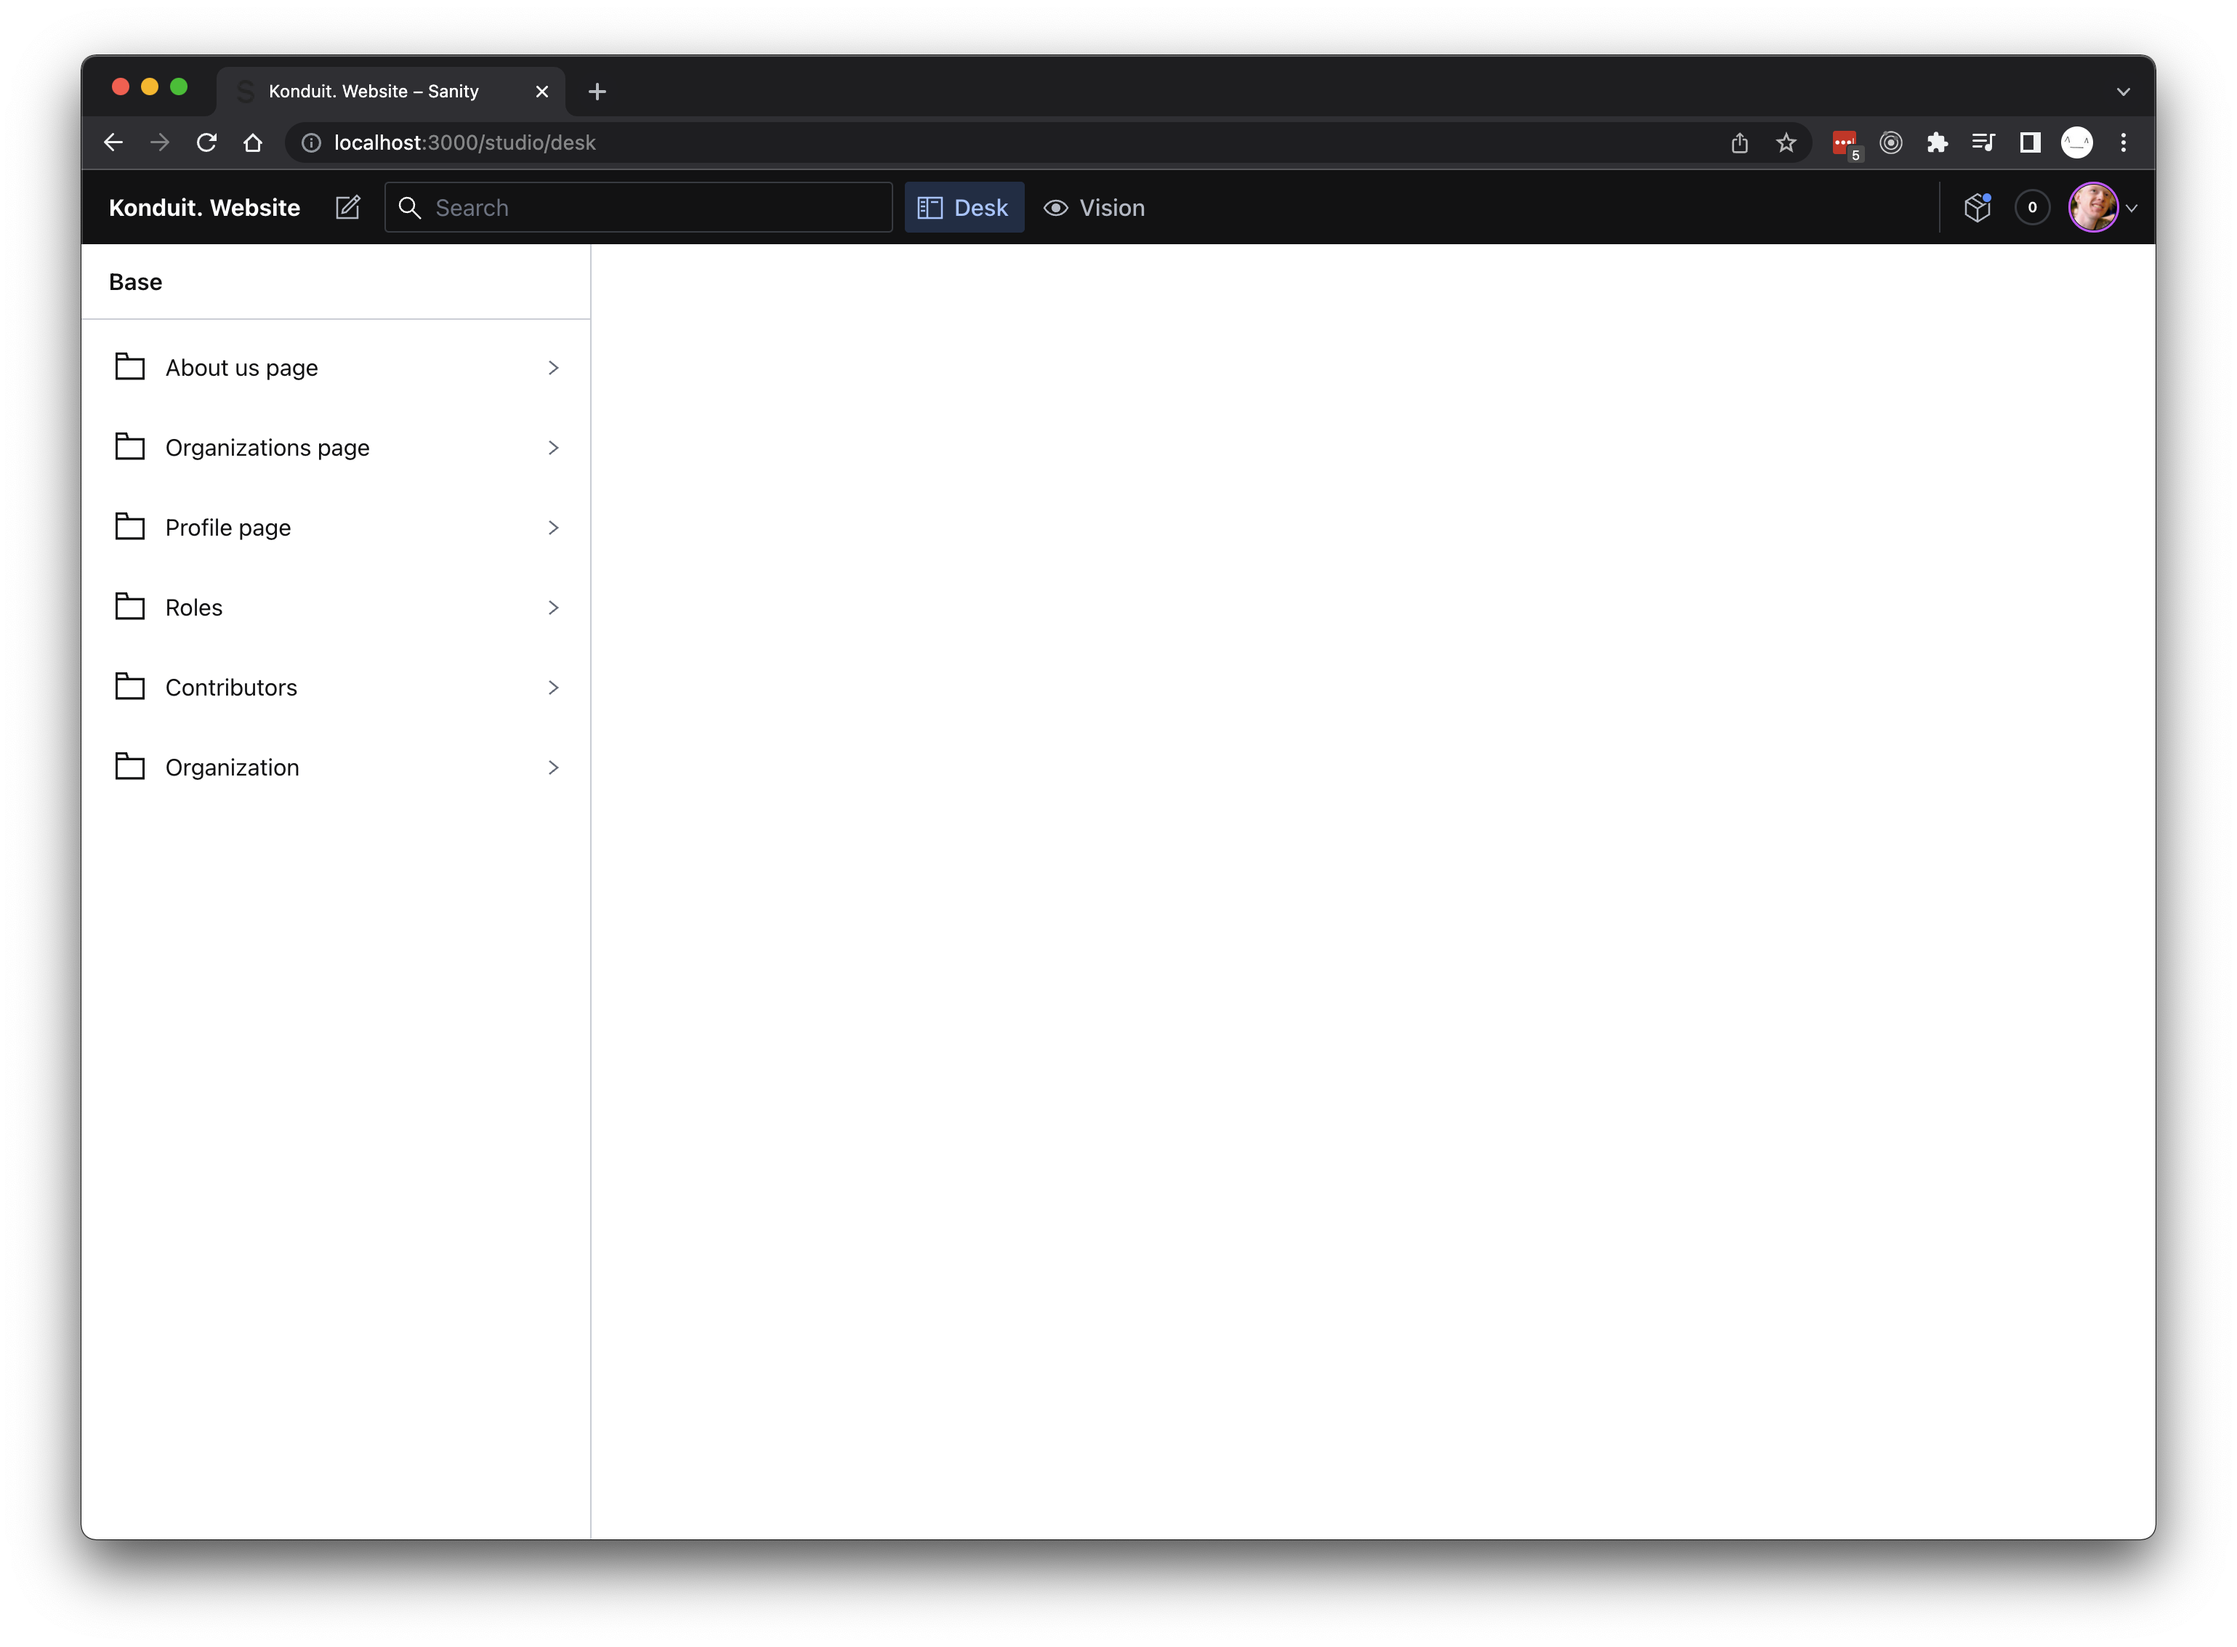
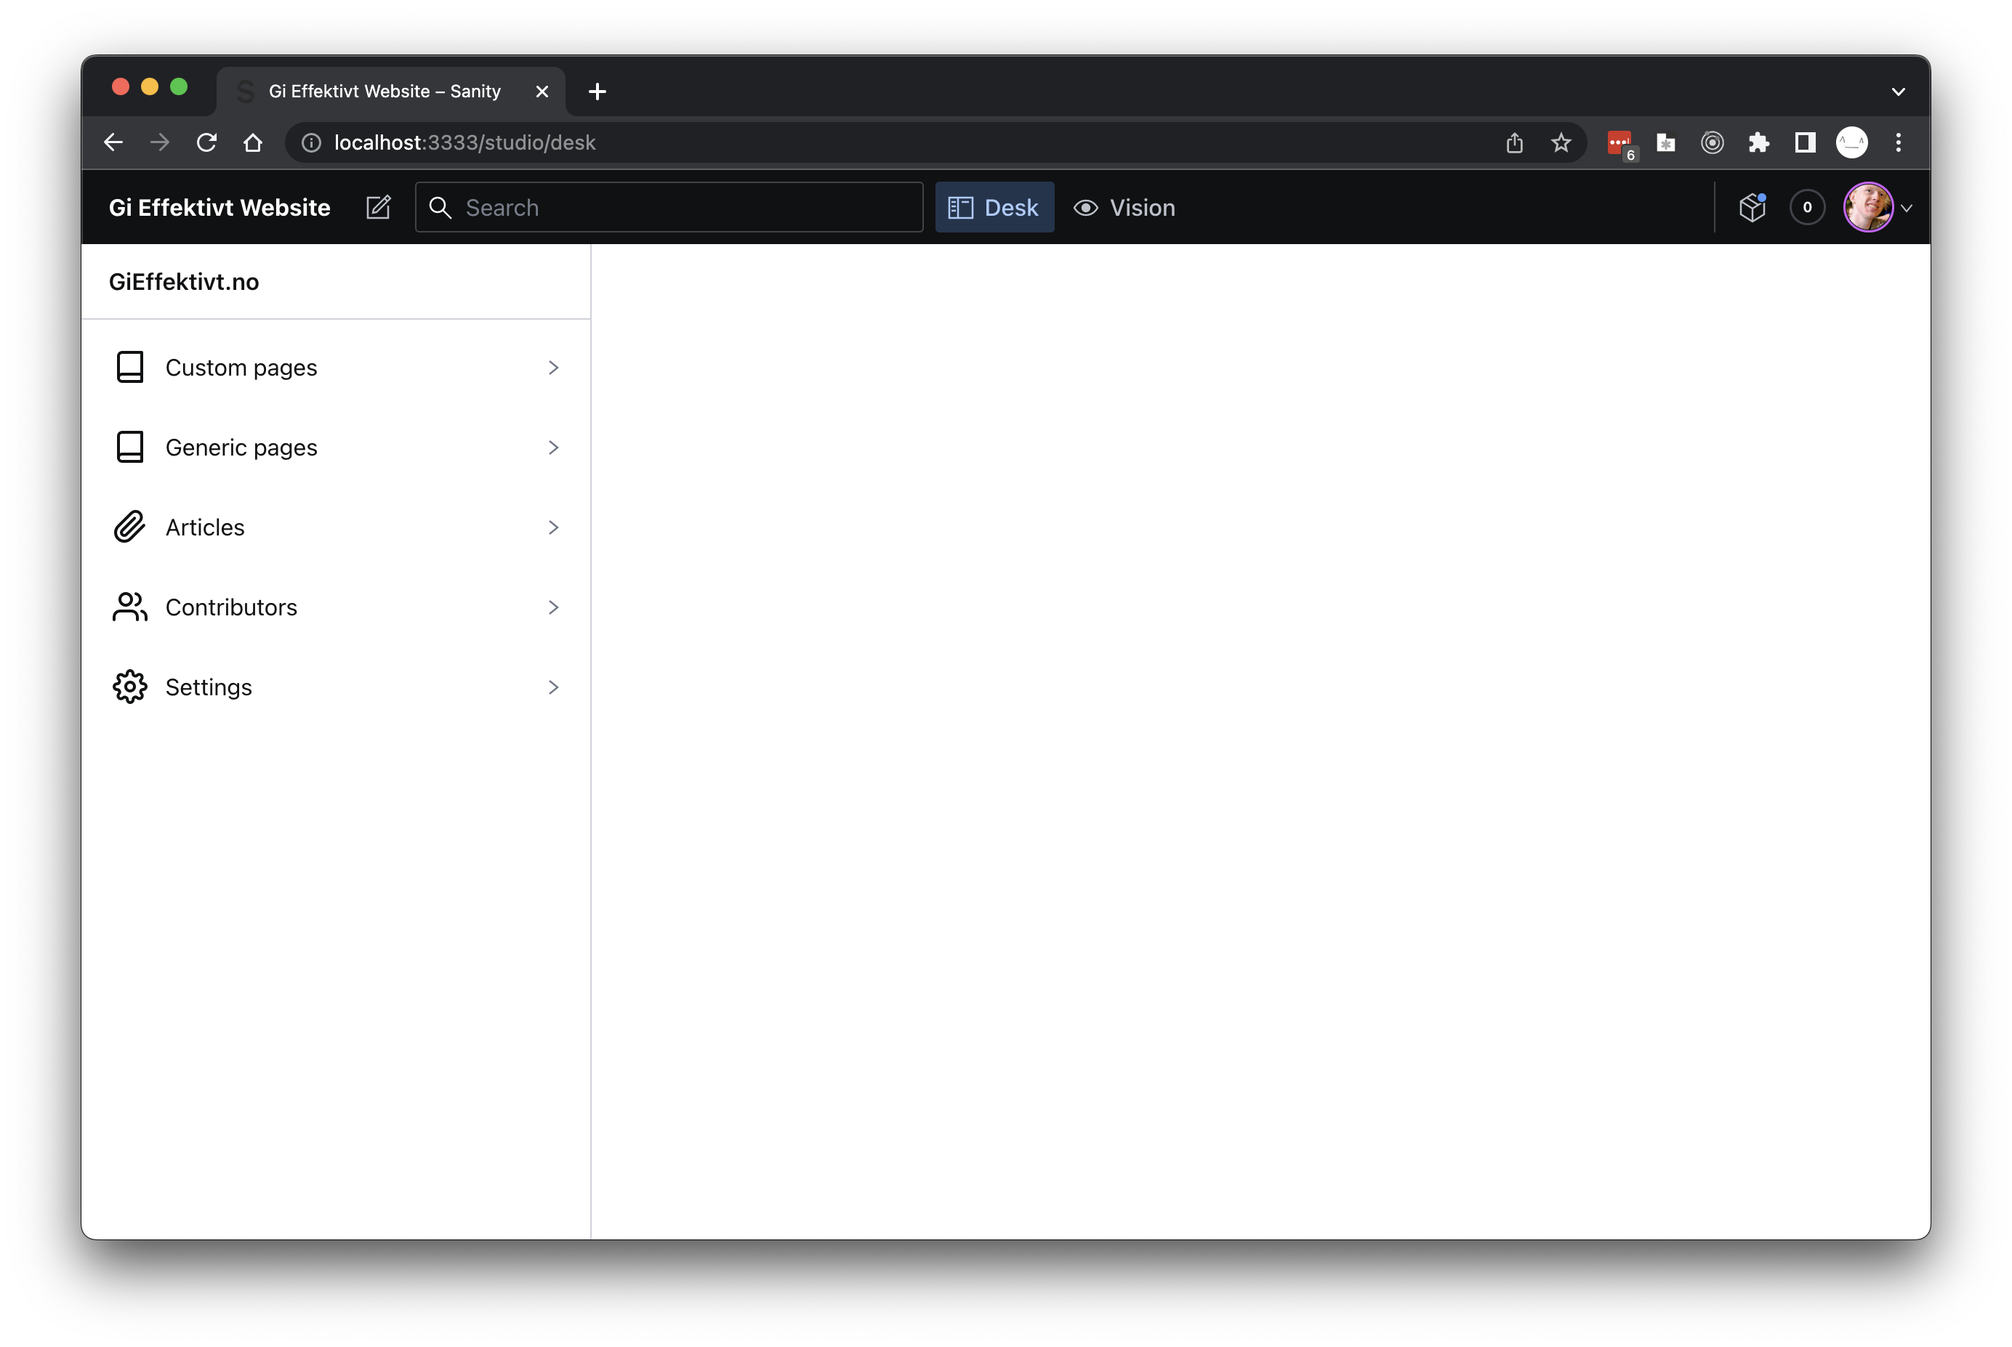
Removes konduit titles in readme and other minor places

Changed region(s): [[0.0311, 0.0307, 0.9942, 0.9838]]

diff --git a/apps/web/pages/profile/agreements.tsx b/apps/web/pages/profile/agreements.tsx
@@ -101,7 +101,7 @@ const Agreements: LayoutPage<{ data: any; preview: boolean }> = ({ data, preview
   return (
     <>
       <Head>
-        <title>Konduit. - Avtaler</title>
+        <title>Gi Effektivt. | Avtaler</title>
         <meta name="description" content="Generated by create next app" />
         <link rel="icon" href="/favicon.ico" />
       </Head>

diff --git a/apps/web/pages/profile/details.tsx b/apps/web/pages/profile/details.tsx
@@ -24,7 +24,7 @@ const Home: LayoutPage<{ data: any; preview: boolean }> = ({ data, preview }) =>
   return (
     <>
       <Head>
-        <title>Konduit. - Profil</title>
+        <title>Gi Effektivt. | Profil</title>
         <meta name="description" content="Generated by create next app" />
         <link rel="icon" href="/favicon.ico" />
       </Head>

diff --git a/apps/web/pages/profile/index.tsx b/apps/web/pages/profile/index.tsx
@@ -115,7 +115,7 @@ const Home: LayoutPage<{ data: any }> = ({ data }) => {
   return (
     <>
       <Head>
-        <title>Konduit. - Donasjoner</title>
+        <title>Gi Effektivt. | Donasjoner</title>
         <meta name="description" content="Generated by create next app" />
         <link rel="icon" href="/favicon.ico" />
       </Head>

diff --git a/apps/web/README.md b/apps/web/README.md
@@ -1,9 +1,14 @@
 <p align="center">
   <img 
     src="docs/logo.svg"
-    alt="Konduit. logo"
+    alt="Gi Effektivt logo"
     width="340" />
 </p>
+
+[![Vercel](https://therealsujitk-vercel-badge.vercel.app/?app=main-site-qeprf4g0x-effective-altruism-norway)](https://gieffektivt.no)
+[![Main site](https://img.shields.io/endpoint?url=https://dashboard.cypress.io/badge/simple/wfkg9n&style=flat&logo=cypress)](https://dashboard.cypress.io/projects/wfkg9n/runs)
+[![License: MIT](https://img.shields.io/badge/License-MIT-blue.svg)](https://opensource.org/licenses/MIT)
+
 
 # Table of Contents
 
@@ -19,7 +24,7 @@
 
 ---
 
-This is the repository for the main Konduit site. [Next.js](https://nextjs.org) is the react based frontend framework. It's created using a combination of static site generation for the public facing pages with [sanity.io](https://sanity.io) as the cms, as well as client side logic and data fetching on the protected profile pages.
+This is the repository for the main Gi Effektivt site. [Next.js](https://nextjs.org) is the react based frontend framework. It's created using a combination of static site generation for the public facing pages with [sanity.io](https://sanity.io) as the cms, as well as client side logic and data fetching on the protected profile pages.
 
 Authentification is handled with [Auth0](https://auth0.com), and the API used for data fetching and mutation is found in the [backend repository](https://github.com/stiftelsen-effekt/effekt-backend).
 
@@ -39,7 +44,7 @@ To start the development server run
 
 Navigating to `localhost:3000/` in your browser should yield something like this
 
-<img src="docs/frontpage.png" width="420" alt="Konduit front page" />
+<img src="docs/frontpage.png" width="420" alt="Gi Effektivt front page" />
 
 The content managment panel is not strictly needed to run the main site. However, if you wish to use the sanity studio to change cms content, using the development data set, run
 
@@ -47,9 +52,9 @@ The content managment panel is not strictly needed to run the main site. However
 
 > To use the CMS you need a sanity CMS managment user. Enquire in the tech slack channel to be added as a user.
 
-This will make sanity studio available at `localhost:3000/studio/`. It should look something like this
+This will make sanity studio available at `localhost:3333/`. It should look something like this
 
-<img src="docs/sanity.png" width="420" alt="Konduit front page" />
+<img src="docs/sanity.png" width="420" alt="Gi Effektivt front page" />
 
 ## Project structure
 
@@ -100,8 +105,8 @@ const ExamplePage: LayoutPage<{ data: any; preview: boolean }> = ({ data, previe
   return (
     <>
       <Head>
-        <title>Konduit. - Example Page</title>
-        <meta name="description" content="Konduit example page" />
+        <title>Gi Effektivt. | Example Page</title>
+        <meta name="description" content="Gi Effektivt example page" />
         <link rel="icon" href="/favicon.ico" />
       </Head>
 
@@ -160,14 +165,14 @@ if (!user)
   // User is not logged in, handle in an apropriate way
 
   const { loading, error, data } = useApi<Donor>(
-    `/donors/${user["https://konduit.no/user-id"]}/`,
+    `/donors/${user["https://gieffektivt.no/user-id"]}/`,
     "GET",
     "read:profile",
     getAccessTokenSilently,
   );
 ```
 
-> ⚠ The donor id used for the backend API is not the same as the id of the auth0 user. The donor id used in the backend api is available on the user object as the `https://konduit.no/user-id` property.
+> ⚠ The donor id used for the backend API is not the same as the id of the auth0 user. The donor id used in the backend api is available on the user object as the `https://gieffektivt.no/user-id` property.
 
 The hook functions can be viewed as a finite state machine.
 
